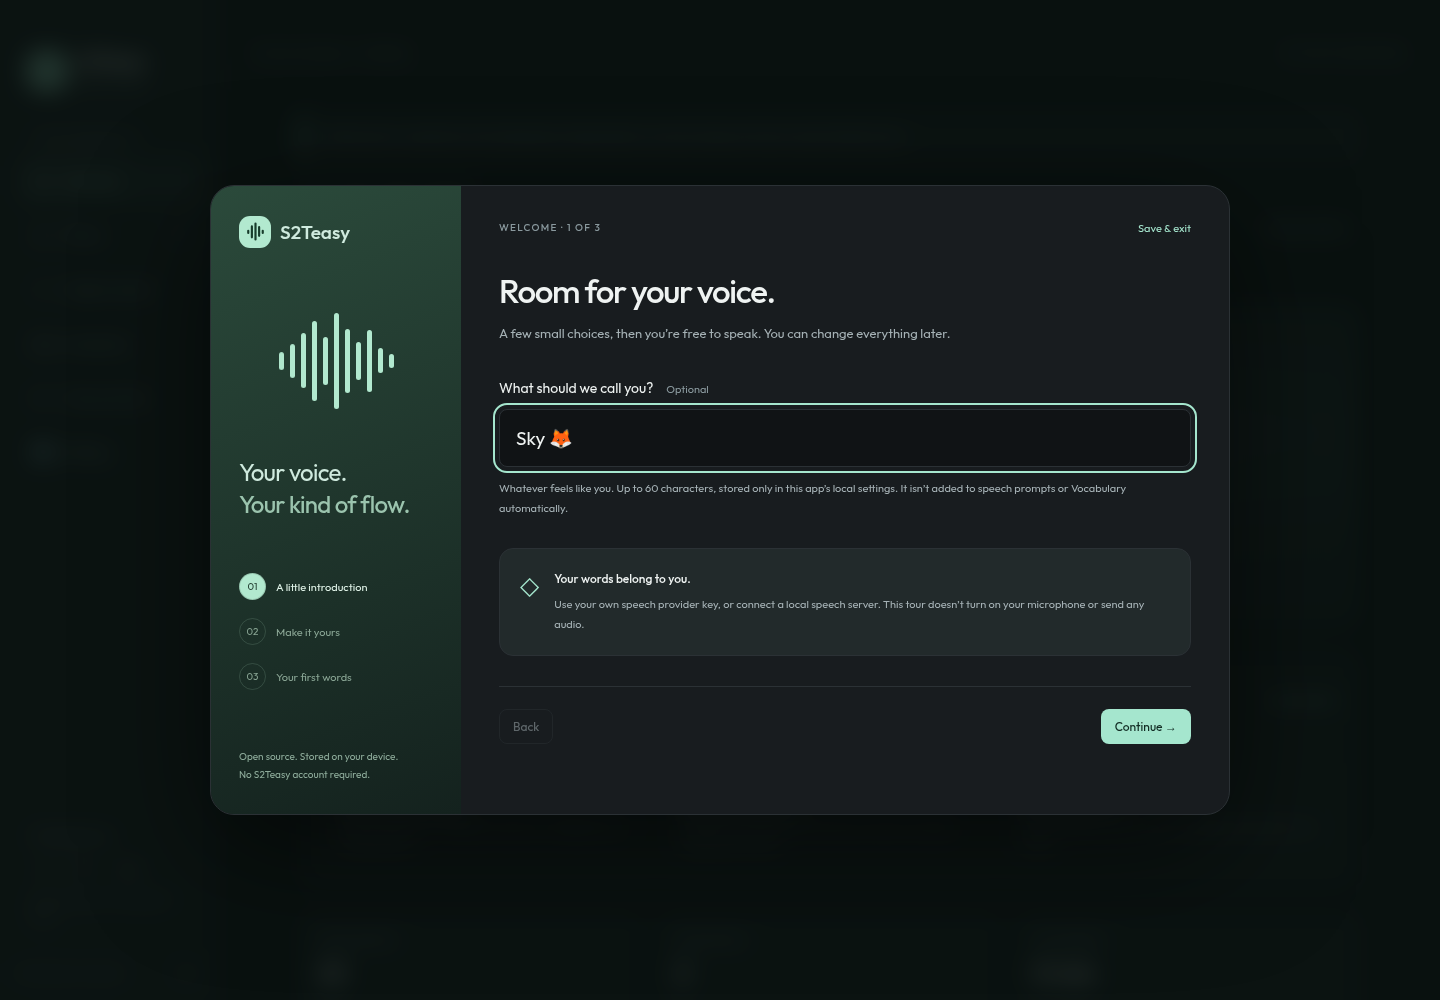
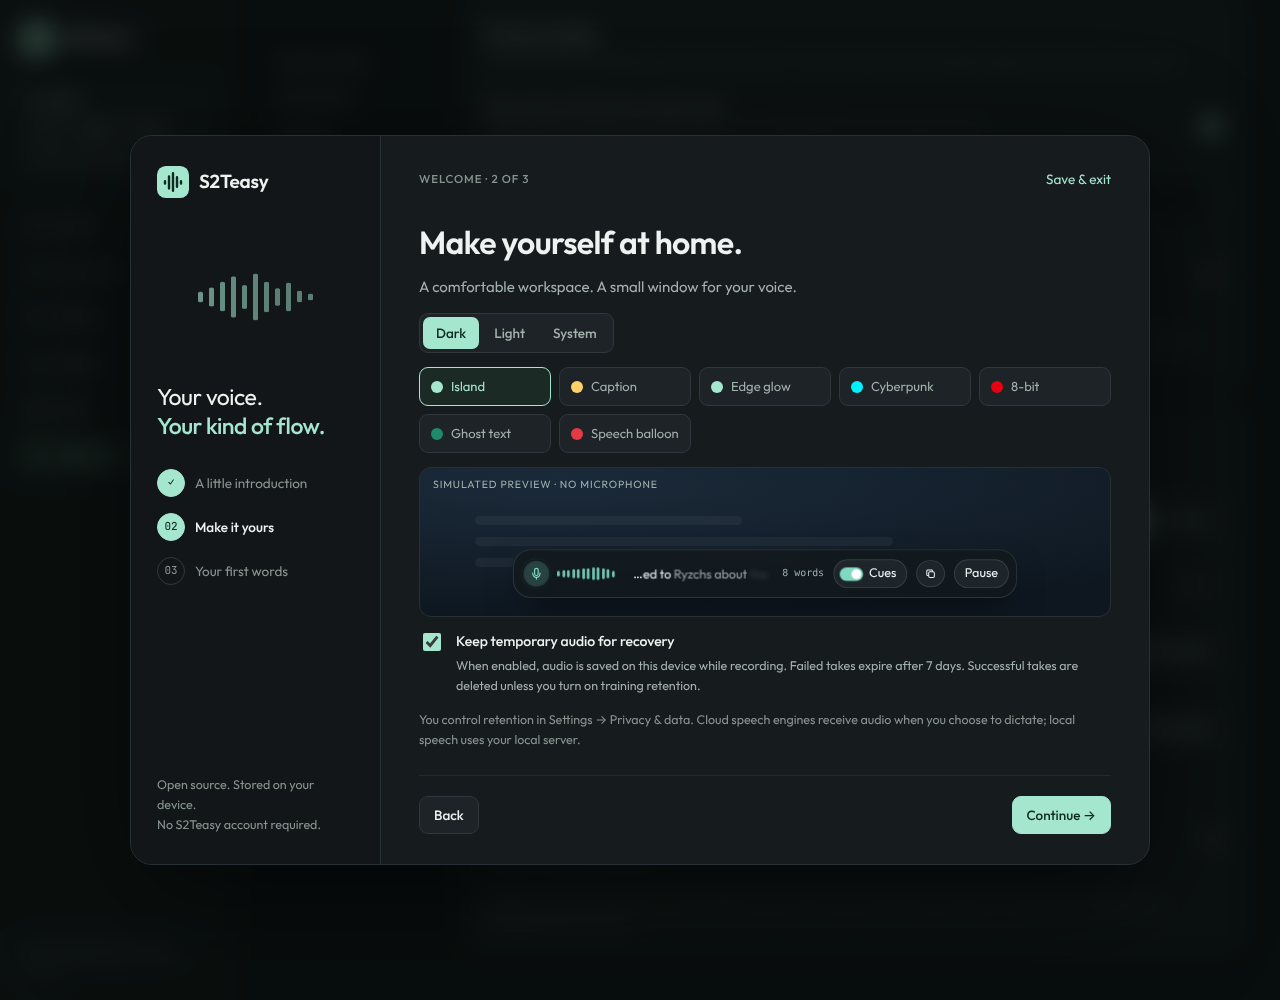
Show the redesigned app in the README with fresh screenshots
Rewrite the introduction and feature list for v1.9.0 (learned words,
one editable HUD, seven styles, the new screens), add a screens gallery
and a HUD style sheet generated from the preview's sample data, and
correct where recognition hints are sent: OpenRouter audio chat models
and local servers, not dedicated OpenRouter ASR.

diff --git a/README.md b/README.md
@@ -8,7 +8,7 @@
 
 An open source Windows dictation app with live text, recoverable sessions, and a vocabulary you control.
 
-<img src="docs/app-preview.png" alt="S2Teasy development interface showing its dictation workspace" width="100%" />
+<img src="docs/screens/app-home-dark.png" alt="S2Teasy Home screen with recent sessions, words fixed by Your voice and this week's totals, shown with sample data" width="100%" />
 
 [![Build Windows](https://github.com/HighRyzchs/S2TEasy/actions/workflows/build-windows.yml/badge.svg)](https://github.com/HighRyzchs/S2TEasy/actions/workflows/build-windows.yml)
 [![Website](https://github.com/HighRyzchs/S2TEasy/actions/workflows/pages.yml/badge.svg)](https://github.com/HighRyzchs/S2TEasy/actions/workflows/pages.yml)
@@ -16,7 +16,7 @@ An open source Windows dictation app with live text, recoverable sessions, and a
 
 [Project website](https://highryzchs.github.io/S2TEasy/) · [Interactive HUD demo](https://highryzchs.github.io/S2TEasy/overlay-demo/) · [Desktop workflow](docs/OUTPUT_WORKSPACE.md) · [Concepts & architecture](docs/CONCEPTS.md) · [Getting started](#getting-started) · [Development](#development) · [Privacy](docs/PRIVACY.md) · [Contributing](CONTRIBUTING.md) · [Roadmap](docs/ROADMAP.md)
 
-**New in v1.8.1: Your voice is the heart of the app.** It opens first, sits at the top of the sidebar, and brings the approved studio design into the desktop: output beside the recorder, soft cards, a shared library, a focused word editor, and Paper/Night views. Visible HUD tag/copy choices stay connected to real data. Also fixes the reproduced detached-PowerShell updater startup failure and adds an actual Electron handoff regression. [Workflow and source map →](docs/OUTPUT_WORKSPACE.md) · [Update recovery →](docs/UPDATE_TROUBLESHOOTING.md)
+**New in v1.9.0: your words, fixed before they land.** S2Teasy learns how you are misheard ("as two teasy" → S2Teasy) and fixes it while you talk. One HUD replaces two: the shortcut starts and pauses, you click a word to fix it, and a small pill asks whether to remember it. Seven HUD styles, and a redesigned app with Home, Your voice, History, Usage, HUD and Settings. [Release notes →](docs/RELEASE_NOTES.md) · [Update recovery →](docs/UPDATE_TROUBLESHOOTING.md)
 
 ```mermaid
 flowchart LR
@@ -34,14 +34,29 @@ flowchart LR
 
 ## What it does
 
-- **Dictation into Windows apps.** A configurable global shortcut, toggle or hold mode, and live phrase insertion or insertion on stop.
-- **Six HUD styles.** Ink, Frost, Liquid Glass, Cyberpunk, 8-bit, and the Studio mixer. Choose horizontal or vertical layout, size, accent color, waveform sensitivity, and your own local emblem/background image.
-- **Live HUD.** Provisional text, finalized phrases, microphone activity, nine placements on the display nearest your pointer, and speech-volume-reactive waveforms. Stop finishes a recording; Cancel releases the microphone and keeps saved work. Errors dismiss automatically after eight seconds and remain recoverable in History. The overlay avoids taking keyboard focus.
-- **Recoverable sessions.** Finalized text is checkpointed before insertion. Temporary local audio enables retry after connection or paste failures. History distinguishes saved, interrupted, failed, and cancelled sessions.
+- **Dictation into Windows apps.** A global shortcut starts, pauses and resumes. Words are typed live as each phrase settles, or all at once when you finish (draft first). A paused session finishes by itself after a delay you choose.
+- **Your words, learned.** Fix a word in the HUD and S2Teasy offers to remember it as a name or as the way you say it. Every way a word gets misheard is kept, including several heard words for one meant word, and applied the next time you speak. A word that might still be the start of a learned phrase waits a moment before it is typed, so names are never typed half-fixed.
+- **One HUD you can edit.** Click your words while you keep talking, or drag across several. Already-typed text is replaced in place only when nothing else touched the app since S2Teasy typed it; otherwise the fix stays in History and your text is left alone. Copy, a speech-cue switch and a click-through window.
+- **Seven HUD styles.** Island, Caption, Edge glow, Cyberpunk, 8-bit, Ghost text and Speech balloon, each recolorable and resizable, in nine screen positions. [Try them in the browser →](https://highryzchs.github.io/S2TEasy/overlay-demo/)
+- **Recoverable sessions.** Finalized text is saved before it is typed. Temporary local audio enables retry after connection or paste failures, and History plays it back.
 - **Your choice of engine.** router.audio streaming, OpenRouter audio-input models, or an already-running local speech server.
-- **Explicit vocabulary.** Add, disable, or remove whole-word and phrase corrections. Original recognition text is retained alongside corrected text.
-- **Voice practice without typing.** Give a word/phrase its intended text, consent to local audio retention for that take, record it, and compare the recognized text. Export a WAV plus a JSON label from History. No training dataset is uploaded automatically.
-- **A customizable workspace.** Dark, light, or system appearance; microphone selection and processing; searchable, editable history.
+- **Speech cues (optional).** Emotion and delivery tags such as `[excited]` or `[laughs]` written into copied or typed text, before the words, after them or as a context note. Off by default; one audio-model analysis per session when on, billed by your provider.
+- **Usage you can read.** A local analytics page: spend by purpose, time, words, fixes, words per app, how often your own words come out right, and per-model latency and failures. Nothing is sent anywhere.
+
+## Screens
+
+Sample data, real app. Regenerate these with `npm run screenshots`.
+
+| | |
+| --- | --- |
+| <img src="docs/screens/app-your-voice-dark.png" alt="Your voice: the words S2Teasy knows, how each is misheard and how often it comes out right" /> | <img src="docs/screens/app-history-dark.png" alt="History: a session with its fixed words underlined and what changed" /> |
+| **Your voice.** Words, practice and speech cues. | **History.** What you said, what was fixed, audio playback. |
+| <img src="docs/screens/app-usage-dark.png" alt="Usage: spend per day split by speech, emotion cues and recovery" /> | <img src="docs/screens/app-hud-dark.png" alt="HUD settings with a live preview and the seven styles" /> |
+| **Usage.** Local analytics, unknown prices kept visible. | **HUD.** Live preview, styles, behavior and position. |
+| <img src="docs/screens/app-home-light.png" alt="Home in the light theme" /> | <img src="docs/screens/app-settings-dark.png" alt="Settings: speech engine, microphone, shortcut, privacy and app" /> |
+| **Light theme.** Dark, light or follow Windows. | **Settings.** One page, plain explanations. |
+
+<img src="docs/screens/hud-styles.png" alt="The seven HUD styles, each paused with an editable draft" width="100%" />
 
 ## Getting started
 
@@ -77,16 +92,16 @@ History retains the newest 400 sessions. Older app-managed sessions and their au
 
 On first launch, a three-step welcome tour lets you choose an optional name/nickname, preview your appearance and HUD, and review audio recovery before learning the recording shortcut. You can save and exit at any step. Your name stays in local settings; it is not automatically added to provider prompts or Vocabulary. Existing speech settings and History are preserved.
 
-Change or clear your name, replay the tour, and restore the setup checklist in **Settings → Profile & tour**. The Overview checklist links directly to speech-engine setup and the local microphone test. A configured engine is not presented as a verified connection. The tour itself requests no microphone access and makes no paid speech calls.
+Change or clear your name and replay the tour in **Settings → App & updates**. Home shows whether your engine, microphone and typing are set up and links to each setting; a configured engine is not presented as a verified connection until you test it. The tour itself requests no microphone access and makes no paid speech calls.
 
-<img src="docs/welcome-preview.png" alt="S2Teasy welcome tour with an optional nickname field, shown using a sample profile" width="100%" />
+<img src="docs/welcome-preview.png" alt="S2Teasy welcome tour choosing a HUD style with a live preview" width="100%" />
 
 ## Review, customize, and track usage
 
-- **HUD:** Copy the current transcript or finish into the review editor. Settings → Appearance includes nine anchors, pixel offsets, horizontal/vertical layouts, fonts, colors, image assets, and five waveform styles. HUD studio exports/imports theme JSON and downloads a microphone SVG design source and guide. Export that design as PNG/WebP before uploading it.
+- **HUD:** Click your words to fix them while talking, pause to edit at leisure, copy at any time. The HUD screen sets the style, color, size, one line or full text while talking, live or draft-first typing, the finish delay, nine anchors and pixel offsets.
 - **Corrections:** History → Review & correct suggests word/phrase replacements after saving. Choose which to remember in Your voice, or start a practice take with the intended word filled in. Saving edits changes local History; copy corrections into an already-filled external app yourself.
 - **Playback:** Retained audio plays locally. Provider word timestamps enable word highlighting, seeking, and explicitly saving a labeled word clip to Voice practice. Enable the optional word-timing request for compatible STT models; untimed/older takes retain ordinary playback. This collects labeled examples and applies vocabulary rules; acoustic fine-tuning is not implemented.
-- **Usage & spend:** 7/30/90-day charts, model breakdowns, request counts, processed audio, and CSV export. Only provider-reported costs are counted. Missing costs remain unknown; this is not your provider invoice. Metrics start with this version and stay in a separate local log, without transcript text or audio.
+- **Usage:** 7/30/90-day charts split by purpose, words, fixes, words per app, recognition of your own words, model breakdowns, and CSV export. Only provider-reported costs are counted. Missing costs remain unknown; this is not your provider invoice. Metrics start with this version and stay in a separate local log, without transcript text or audio.
 - **Speech tail:** Stop captures another 600 ms by default (configurable 0–1500 ms), flushes the capture worklet, and allows short trailing speech. Cancel still releases capture immediately. Unfinalized stream text remains available for review if the provider never commits it.
 
 For recurring `findstr` terminals after an older update, see [update troubleshooting](docs/UPDATE_TROUBLESHOOTING.md).
@@ -130,9 +145,9 @@ See [Architecture](docs/ARCHITECTURE.md) and [Windows smoke test](docs/WINDOWS_T
 
 ## Pronunciation personalization
 
-The vocabulary is a deterministic, case-insensitive post-pass over **each finalized segment**. It matches whole words/phrases using Unicode boundaries, prefers longer matches, and never cascades replacements. Rules spanning separate finalized segments are not applied. Use distinctive phrases: a rule for a common word changes every matching occurrence in new dictations.
+Personal words are applied to the text as it settles. Each word keeps every heard form you taught it (including multi-word forms such as "as two teasy"), matches whole words and phrases using Unicode boundaries, prefers longer matches, and never cascades replacements. In live typing, trailing words that could still become a learned phrase wait for the next phrase or the end of the session. Use distinctive heard forms: a form that is a common word changes every matching occurrence.
 
-For OpenRouter audio chat and Local speech, enabled intended words also become prompt hints. Dedicated OpenRouter ASR requests omit optional keyterms because support differs by provider; your correction rules still apply to their output. These are preferences; model compliance is not guaranteed. Streaming provider keyword boosting is not implemented because provider contracts differ. No acoustic adaptation or automatic fine-tuning occurs.
+Names, keywords and phrases also become recognition hints for OpenRouter audio chat models and local servers. Dedicated OpenRouter ASR requests omit optional keyterms because support differs by provider. Through router.audio, Deepgram `keyterm` hints are an opt-in experimental setting, because router.audio does not document them. Hints are preferences; model compliance is not guaranteed. No acoustic adaptation or automatic fine-tuning occurs.
 
 For pronunciation examples, open **Your voice**, enter a short target phrase, consent to saving that take, and record it. No text is inserted into another application. Review the recognition in Your voice or History, correct the intended text if necessary, and export WAV + JSON. The development build groups raw recognition results by phrase and model, showing matches and retained audio examples; this measures the recognizer, not your accent. Practice takes retain their audio even when successful-take retention is globally off, because each take has its own consent. Exported labels pair the **whole take** with the intended transcript; they are not word-aligned. Text-only historical recordings cannot recover an accent. Real adaptation requires consented audio/text pairs, an engine that supports adaptation, and evaluation on held-out recordings. See the [personal speech design](docs/PERSONAL_SPEECH_DESIGN.md) and [roadmap](docs/ROADMAP.md).
 

diff --git a/docs/RELEASE_NOTES.md b/docs/RELEASE_NOTES.md
@@ -3,7 +3,7 @@
 **Recognition**
 - Personal words now remember every way they get misheard, including multi-word ones ("as two teasy" → S2Teasy), with a kind (name, how I say it, keyword, phrase), an optional sounds-like note, kept clips and fix counts. Older vocabulary rules load unchanged.
 - Live typing tracks exactly what it typed. Trailing words that could still become a learned phrase wait for the next phrase, so a name is never typed half-fixed. Words learned mid-session apply to everything not yet typed.
-- Names and keywords go to OpenRouter and local engines as recognition hints. Passing them to Deepgram through router.audio (`keyterm`) is opt-in and marked experimental, because router.audio does not document it.
+- Names and keywords go to OpenRouter audio chat models and local servers as recognition hints (dedicated OpenRouter ASR requests still omit them). Passing them to Deepgram through router.audio (`keyterm`) is opt-in and marked experimental, because router.audio does not document it.
 
 **The HUD**
 - One HUD instead of two. The shortcut starts, pauses and resumes; a paused session finishes by itself after a delay you choose (7 seconds by default) that holds while you hover or edit; Done finishes at once.
